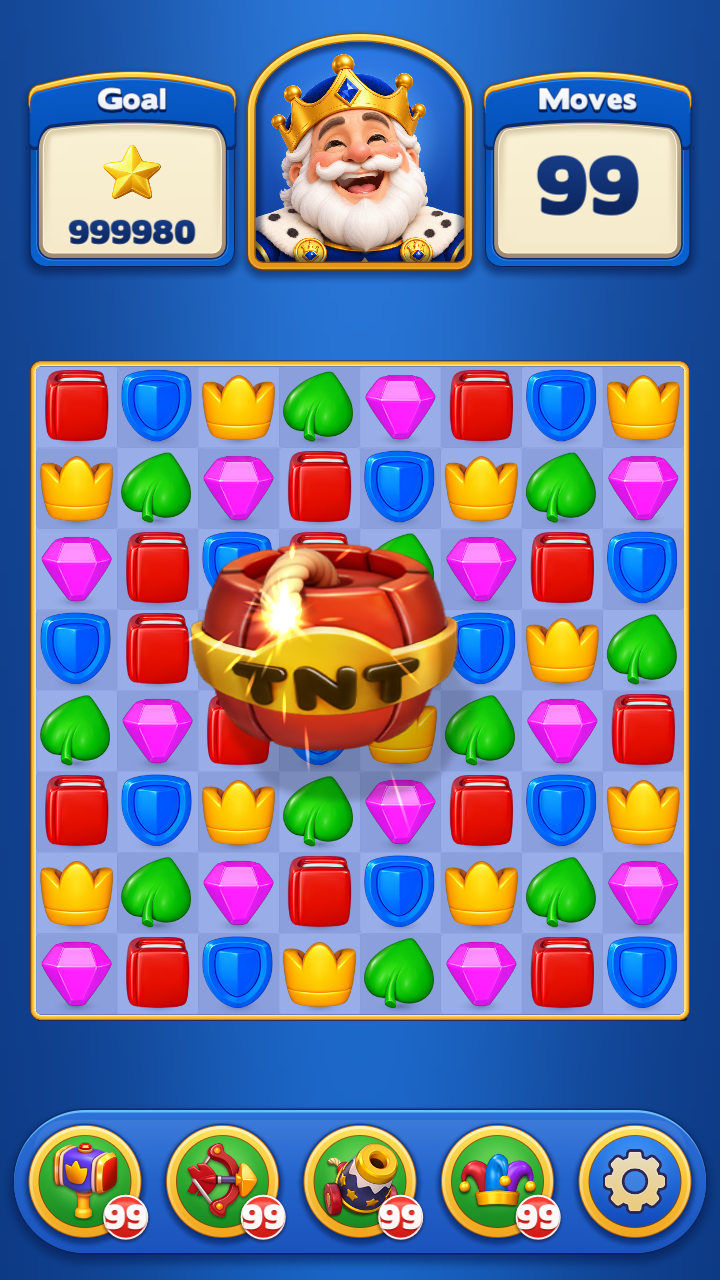
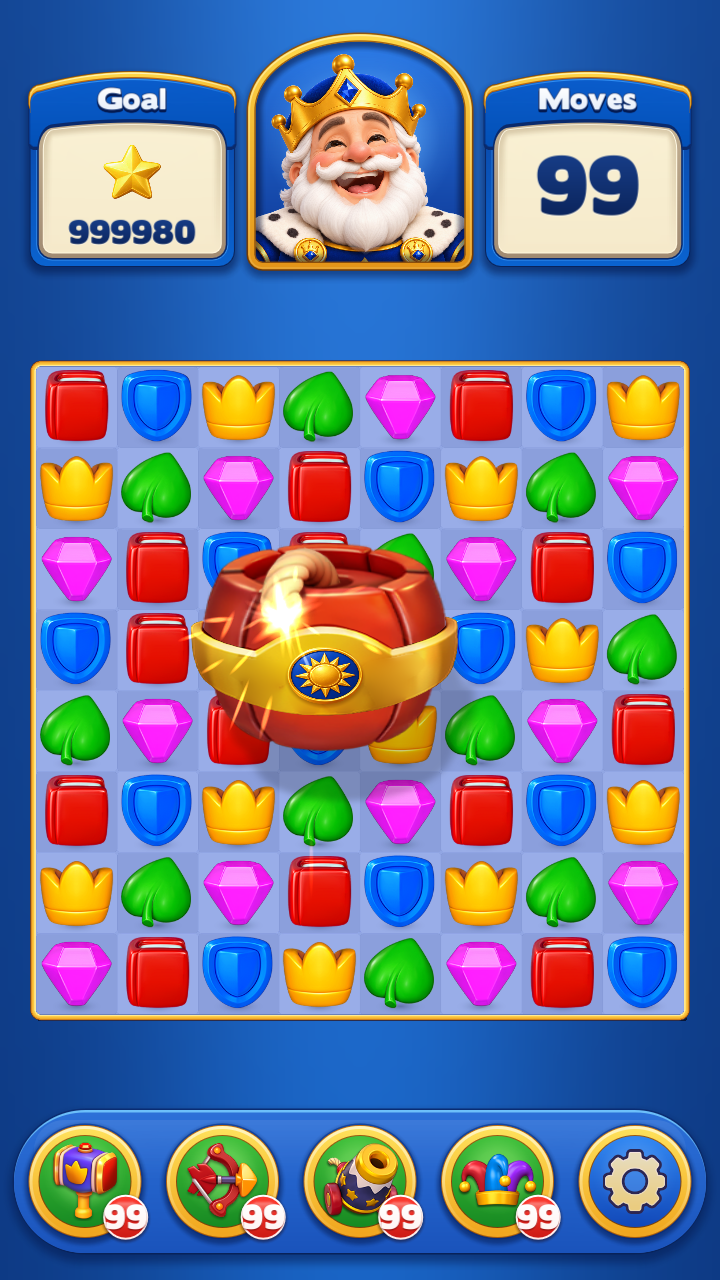
Use approved sun band throughout dual TNT animation

Changed region(s): [[0.2444, 0.4375, 0.5806, 0.5938]]

diff --git a/Assets/JellyGarden/Scripts/Editor/RoyalDualTntCheckSession.cs b/Assets/JellyGarden/Scripts/Editor/RoyalDualTntCheckSession.cs
@@ -67,17 +67,22 @@ namespace RoyalThrone.Editor
                     int plays=fx.NativeTntComboPlays, moves=lm.Limit; Vector3 delta=a.transform.position-b.transform.position;
                     a.SwitchDirection(delta); a.SwitchDirection(delta);
                     Check(!RoyalPowerupDirector.Tap(a) && !RoyalPowerupDirector.Tap(b),name+": duplicate input blocked during merge");
-                    float deadline=Time.realtimeSinceStartup+20, preparedAt=-1, blastAt=-1; int frames=0; bool actor=false, unsupported=false;
+                    float deadline=Time.realtimeSinceStartup+20, preparedAt=-1, blastAt=-1; int frames=0; bool actor=false, unsupported=false, sunShown=false, wrongBand=false;
+                    var sun=UnityEditor.AssetDatabase.LoadAssetAtPath<Sprite>("Assets/ReferenceGameplay/Art/Resources/ReferenceGameplay/Sprites/Items-SpecialItems-TntItem-Combo-kemer__21603.png");
                     while((RoyalPowerupDirector.Busy || lm.InputSwaps>0 || frames==0) && Time.realtimeSinceStartup<deadline)
                     {
                         yield return new WaitForEndOfFrame(); frames++;
                         if(ReferenceActivationVisual.ActiveCount>0) { actor=true; if(preparedAt<0) preparedAt=Time.time; }
+                        foreach(var view in Object.FindObjectsByType<ReferenceActivationVisual>()) if(view.Active)
+                        foreach(var renderer in view.GetComponentsInChildren<SpriteRenderer>(true)) if(renderer.name=="TntKemer" && renderer.enabled)
+                        { sunShown=true; wrongBand |= renderer.sprite!=sun; }
                         if(Blast() && blastAt<0) blastAt=Time.time;
                         foreach(var ps in Object.FindObjectsByType<ParticleSystem>()) if(ps.particleCount>0)
                         { var renderer=ps.GetComponent<ParticleSystemRenderer>(); unsupported |= renderer && (!renderer.sharedMaterial || !renderer.sharedMaterial.shader.isSupported); }
                         if(fps==60 && !vertical && frames%3==0) Capture(frames);
                     }
                     Check(actor && fx.NativeTntComboPlays==plays+1,name+": one dedicated native dual animation");
+                    Check(sun && sunShown && !wrongBand,name+": approved sun band used throughout animation, without TNT lettering");
                     Check(Mathf.Abs(fx.LastTntComboPreparation-1.583333f)<.002f,name+": authored 1.583-second preparation retained");
                     Check(blastAt>=0 && preparedAt>=0 && blastAt-preparedAt>=1.583333f-2f/fps,name+": blast follows preparation");
                     Check(lm.Limit==moves-1,name+": rapid repeated input costs exactly one move");

diff --git a/Assets/ReferenceGameplay/Editor/ReferenceDualComboImporter.cs b/Assets/ReferenceGameplay/Editor/ReferenceDualComboImporter.cs
@@ -48,7 +48,14 @@ public static class ReferenceDualComboImporter
    string ctrlName=kind=="TNTTNTCombo"?"TntTntComboRfv387":"BallBallComboRfv387";string ctrlPath=Animation+"Controllers/"+ctrlName+".controller";
    var controller=AssetDatabase.LoadAssetAtPath<AnimatorController>(ctrlPath);if(!controller)controller=AnimatorController.CreateAnimatorControllerAtPath(ctrlPath);var sm=controller.layers[0].stateMachine;foreach(var st in sm.states)sm.RemoveState(st.state);var state=sm.AddState(name);state.motion=clip;state.speed=1;sm.defaultState=state;
    string viewPath=Animation+"Resources/ReferenceGameplay/Visuals/"+kind+".prefab";var view=PrefabUtility.LoadPrefabContents(viewPath);
-   try{foreach(var r in view.GetComponentsInChildren<SpriteRenderer>(true))if(r.sprite&&byName.TryGetValue(System.Text.RegularExpressions.Regex.Replace(r.sprite.name,@"__\d+$",""),out var exact))r.sprite=exact;view.GetComponentInChildren<Animator>(true).runtimeAnimatorController=controller;PrefabUtility.SaveAsPrefabAsset(view,Animation+"Resources/ReferenceGameplay/Visuals/"+kind+"Rfv387.prefab");}finally{PrefabUtility.UnloadPrefabContents(view);}
+   try{foreach(var r in view.GetComponentsInChildren<SpriteRenderer>(true))if(r.sprite&&byName.TryGetValue(System.Text.RegularExpressions.Regex.Replace(r.sprite.name,@"__\d+$",""),out var exact))r.sprite=exact;
+    // Keep the approved sun band when rebuilding the native dual TNT view.
+    if(kind=="TNTTNTCombo"){
+     var sun=AssetDatabase.LoadAssetAtPath<Sprite>("Assets/ReferenceGameplay/Art/Resources/ReferenceGameplay/Sprites/Items-SpecialItems-TntItem-Combo-kemer__21603.png");
+     if(!sun)throw new InvalidOperationException("Approved TNT sun band is missing.");
+     view.GetComponentsInChildren<SpriteRenderer>(true).Single(r=>r.name=="TntKemer").sprite=sun;
+    }
+    view.GetComponentInChildren<Animator>(true).runtimeAnimatorController=controller;PrefabUtility.SaveAsPrefabAsset(view,Animation+"Resources/ReferenceGameplay/Visuals/"+kind+"Rfv387.prefab");}finally{PrefabUtility.UnloadPrefabContents(view);}
   }
   AssetDatabase.SaveAssets();File.WriteAllText(Folder+"import-result.txt","PASS: "+systems+" native particle systems, "+bindings+" exact sprite bindings, 32 exact sprites, two dedicated combo views; supporting sprites retained when already exact.\n");Debug.Log("ALL_COMBO_ART_IMPORT_PASSED");
  }

diff --git a/Design/Effects/Dual-TNT-test/README.md b/Design/Effects/Dual-TNT-test/README.md
@@ -2,12 +2,12 @@
 
 Tested the Royal Match-derived TNT+TNT animation as integrated into **Royal Throne**, in the live Unity 6000.5.10f1 Editor. This is not a test of the official Royal Match mobile app.
 
-Result: **78 checks passed**, with no new Unity errors. Runtime animation and gameplay code did not need changes.
+Result: **84 checks passed**, with no new Unity errors. The dual-TNT prefab now uses the existing approved sun band instead of the original lettered atlas sprite. The combo importer preserves this choice during rebuilds. Animation clips, transforms, timing and damage code are unchanged.
 
 - Existing `RoyalSuperBombFuseChecks`: 30/60 FPS fuse attachment on every rendered frame, burning-tip movement, rendering above the TNT body, pause/resume, continued emission, explosion, cancellation and stale pooled-handle protection.
-- `RoyalDualTntCheckSession`: horizontal and vertical merges at simulated 15/30/60 FPS through `Item.SwitchDirection`; repeated swap input and taps during the merge; exactly one move charged and one native combo activation; source preparation retained at 1.583333 seconds; explosion follows preparation; particle shaders supported; board settles and input recovers; actors and VFX leases retire.
+- `RoyalDualTntCheckSession`: horizontal and vertical merges at simulated 15/30/60 FPS through `Item.SwitchDirection`; repeated swap input and taps during the merge; exactly one move charged and one native combo activation; approved sun band retained throughout every activation frame; source preparation retained at 1.583333 seconds; explosion follows preparation; particle shaders supported; board settles and input recovers; actors and VFX leases retire.
 - Tests used `RoyalQaService.StartSession/EndSession`, checking the real player's coin/life values and normal save routing after restoration. The editor was returned to its initial Edit Mode.
 
-`RoyalTntNativeSequence.cs` plays `TntTntComboExplodeAnimation` via `TNTTNTComboRfv387`, with `TntTntComboFuseParticles` following `FitilPartikul` above the body. The dedicated `TntTntComboExplodeParticles` begins after preparation. The clip/assets already existed; this task adds the focused test harness and evidence only.
+`RoyalTntNativeSequence.cs` plays `TntTntComboExplodeAnimation` via `TNTTNTComboRfv387`, with `TntTntComboFuseParticles` following `FitilPartikul` above the body. The dedicated `TntTntComboExplodeParticles` begins after preparation. The correct sun artwork already existed, but the native dual prefab referenced the older lettered atlas sprite. Its sprite reference is corrected; no new artwork was needed.
 
 `preview.gif` records the 60 FPS horizontal merge from the actual Game view, sampled every three simulation frames and exported at 50 ms per frame. `fuse.png` shows the native fuse burning during preparation. See `checks.txt` for all assertions. Simulated frame rates validate timing behavior; they do not measure device performance. Android and the official Royal Match app were not exercised.
